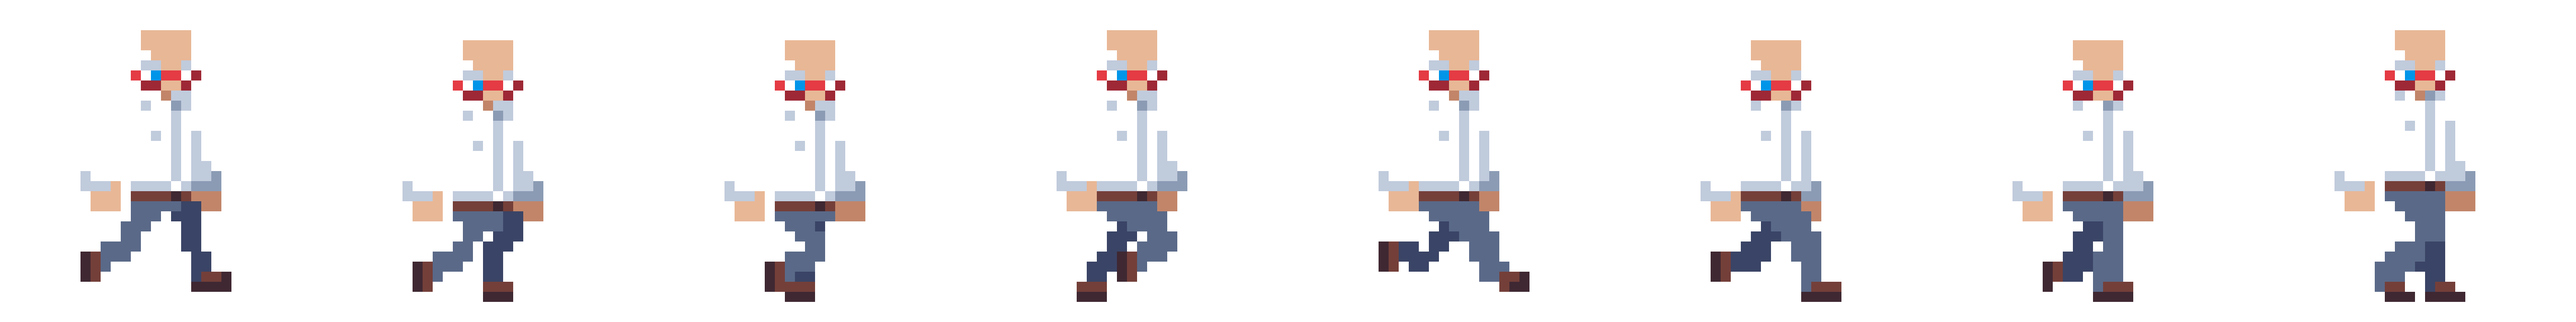
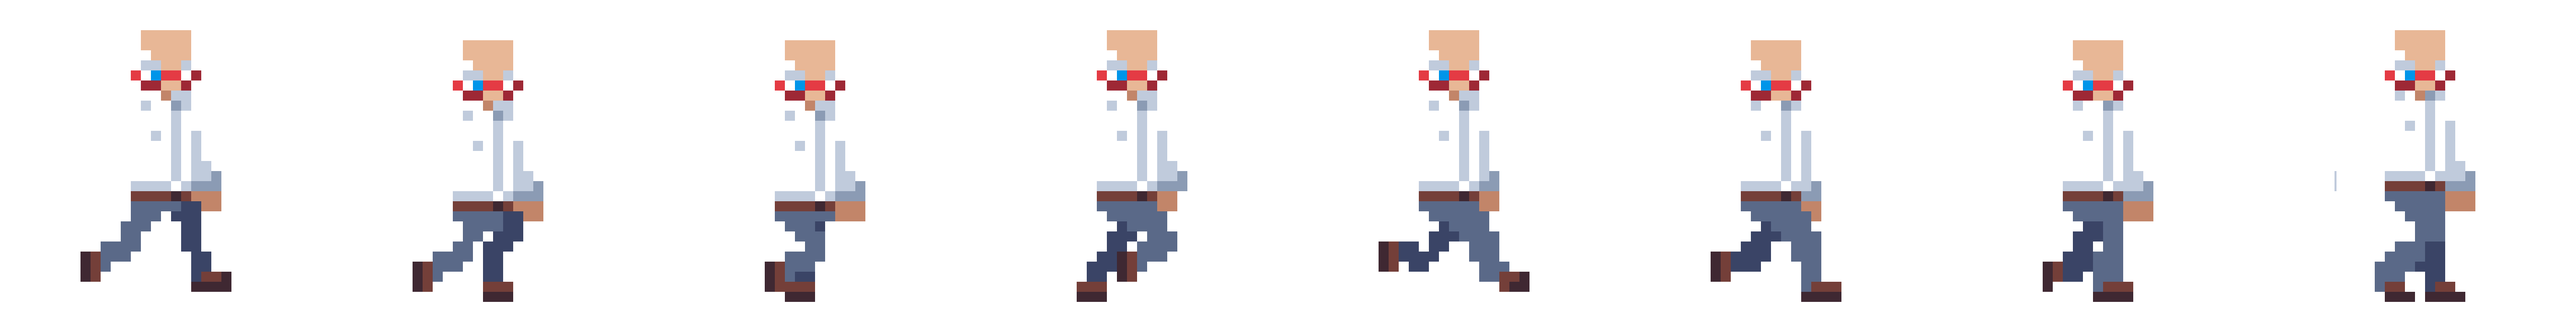
[UNSTABLE] le bras tourne presque

diff --git a/em/view/teacher.rb b/em/view/teacher.rb
@@ -1,6 +1,6 @@
 require "em/view/parameter"
 require("observer")
-require("../model/weaponType")
+require("em/model/weaponType")
 
 class Teacher
   include(Observable)
@@ -33,7 +33,7 @@ class Teacher
     @mbegin = 1
     @hittedState = 999
     @weapon = nil
-    @weaponType
+    @weaponType = "RANGED"
   end
 
   def setPrio(nb = @posy)
@@ -125,7 +125,7 @@ class Teacher
     if @state == "move"
       @i = [Gosu.milliseconds / 125 % @walk.length]
       @image = @walk.at(@i.first())
-      @arm = Gosu::Image.new(@meh, ASSETPATH+"arm#{@name}x20.png", false)
+#      @arm = Gosu::Image.new(@meh, ASSETPATH+"arm#{@name}x20.png", false)
     elsif @state == "idle"
       @image = @idle
       @arm = Gosu::Image.new(@meh, ASSETPATH+"arm#{@name}x20.png", false)
@@ -133,7 +133,6 @@ class Teacher
       if @isPrio
         @image = @hitted
       else
-        puts"aaaaaaaaaaah"
         puts(@hittedState)
         colour = 0xff_ff0000
       end
@@ -153,12 +152,20 @@ class Teacher
         @meh.deleteEntity(self)
       end
     end
+    cur = @meh.getCursorPos()
+    ax = cur[0]
+    ay = cur[1]
+    bx = 210
+    by = 393
+    oy = @posx+273
+    ox = @posy+231
+#    angle = Math.atan2(p3y - p1y, p3x - p1x) - atan2(p2y - p1y, p2x, p1x)
+    angle = Math.tan(((ax-ox)*(by-oy)+(ay-oy)*(bx-ox)) / ((ax-ox)*(bx-ox)-(ay-oy)*(by-oy)))**(-1)
 
-    if @weaponType == MELEE
-      @arm.draw @posx, @posy, @prio, @flip
-    else
-      @arm.draw_rot @posx, @posy, @prio
-    end
+#    if @weaponType == MELEE
+#      @arm.draw @posx, @posy, @prio, @flip
+#    else
+#    end
     
     #attack handler draw
     #    if (@attack == "Estoc" or @attack == "Bas")
@@ -178,5 +185,16 @@ class Teacher
     #      end
     #    end
     @image.draw @posx, @posy, @prio, @flip, 1, colour
+    if @weaponType == "RANGED"
+      pointa = (@arm.width() - (@arm.width() - 273)) / @arm.width 
+      pointb = (@arm.height() - (@arm.height() - 231)) / @arm.height()
+      puts(pointa, pointb)
+      @arm.draw_rot @posx, @posy,@flip, angle, pointa, pointb
+      
+    elsif @state == "dead" or @state == "hited" 
+      puts"dead"
+    else
+      @arm.draw @posx, @posy, @prio, @flip, 1
+    end
   end
 end

diff --git a/em/view/background.rb b/em/view/background.rb
@@ -8,6 +8,7 @@ class Background
     @lifeBar = Gosu::Image.new(window,ASSETPATH+"IHM-TableauPVx20.png", false)
     @life = Gosu::Image.new(window,ASSETPATH+"IHM-PVPleinx20.png", false)
     @Nlife = Gosu::Image.new(window,ASSETPATH+"IHM-PVVidex20.png", false)
+    @cursorPicture = Gosu::Image.new(@window, ASSETPATH+"Curseurx20.png", false)
 
     #FIXME : add methods changePortraitBoss/Player
     @buffCase = Gosu::Image.new(window,ASSETPATH+"IHM-TableauAmeliorationx20.png", false)
@@ -77,6 +78,7 @@ class Background
   end
 
   def draw
+    @cursorPicture.draw(@window.getCursorPos()[0]-20,@window.getCursorPos()[1]-20,99, 0.2, 0.2)
     @wall.draw 0,0,0
     #FIXME : add methods portrait
     @portrait.draw 40,40, 0

diff --git a/em/model/Terrain.rb b/em/model/Terrain.rb
@@ -35,7 +35,7 @@ class Terrain
     @game.player=(@@entities["Blanchon"][1])
 
 #    newEntite(EntiteList::CERET, 4020, 1000)
-    @game.boss=(@@entities["Ceret"][1])
+#    @game.boss=(@@entities["Ceret"][1])
     
     @threadIHM = Thread.new do
 #        @@entities["Ceret"][1].moveLeft()

diff --git a/em/model/weaponType.rb b/em/model/weaponType.rb
@@ -1,4 +1,4 @@
 module WEAPONTYPE
-  RANGED
-  MELEE
+  RANGED = "RANGED"
+  MELEE = "MELEE"
 end
